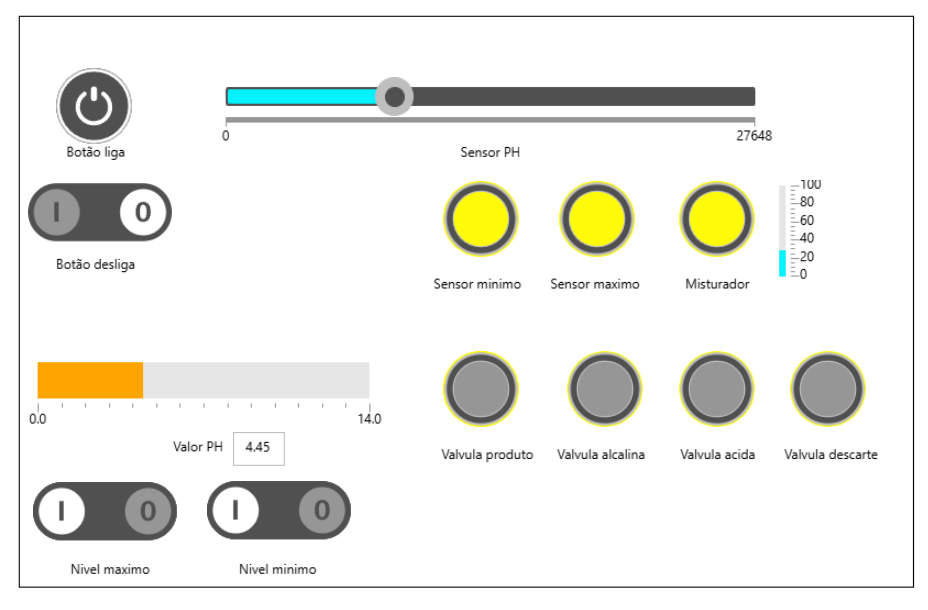
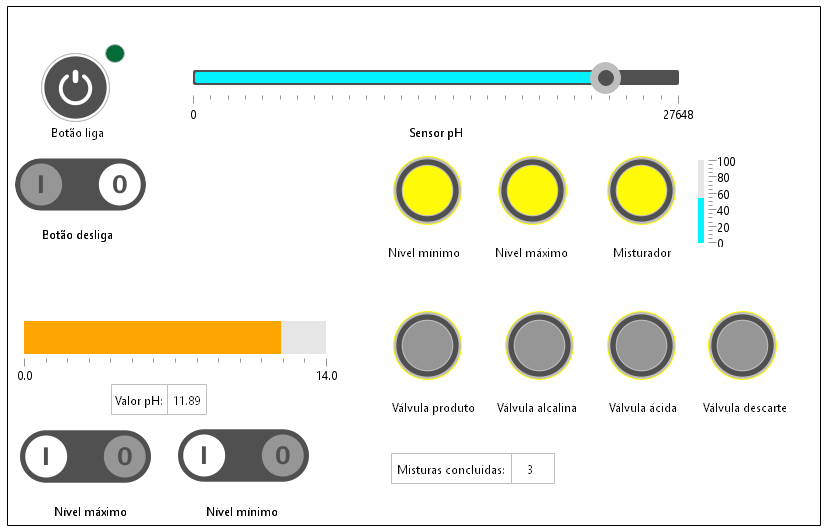
adição de protocolos e atualização da ihm

diff --git a/python-modbus/corretor_ph.py b/python-modbus/corretor_ph.py
@@ -1,0 +1,41 @@
+from pyModbusTCP.client import ModbusClient
+import time
+import struct
+
+c = ModbusClient(host="localhost", port=502, unit_id=1, auto_open=True)
+
+def decode_float(reg_low, reg_high):
+    # junta dois registros de 16 bits em um float de 32 bits
+    packed_data = struct.pack('<HH', reg_low, reg_high)
+    return struct.unpack('<f', packed_data)[0]
+
+status_anterior = None
+
+try:
+    while True:
+        if c.is_open:
+                registro = c.read_input_registers(0, 4)
+                if registro:
+                    status_atual = {
+                            "valvula produto": bool(registro[0] & (1 << 0)),
+                            "valvula acida": bool(registro[0] & (1 << 1)),
+                            "valvula alcalina":  bool(registro[0] & (1 << 2)),
+                            "valvula descarte":  bool(registro[0] & (1 << 3)),
+                            "atuador mistura":  bool(registro[0] & (1 << 4)),
+                            "nivel maximo":  bool(registro[0] & (1 << 5)),
+                            "nivel minimo":  bool(registro[0] & (1 << 6)),
+                            "estado ph": registro[1],
+                            "valor ph": round(decode_float(registro[2], registro[3]),2)} # estado 1 = neutro, 2 = basico, 3 = acido
+                    
+                    if status_anterior != status_atual:
+                        print("-"*30)
+                        for chave, valor in status_atual.items():
+                            print(f"{chave}: {valor}")
+                        status_anterior = status_atual
+                
+        else:
+            print("Tentando conectar...")
+            c.open()
+        time.sleep(0.5)
+except KeyboardInterrupt:
+    print("Scanner parado.")

diff --git a/README.md b/README.md
@@ -1,6 +1,7 @@
-Sistema de correção de pH - CODESYS & IHM
-
-Este projeto visa criar um corretor de misturas ácidas e alcalinas através de sensores analógicos e digitais e com uma IHM.
+Sistema de correção de pH - CODESYS & IHM & Mini-SCADA Python
+ 
+Este projeto visa criar um corretor de misturas ácidas e alcalinas através de sensores analógicos/digitais com uma IHM. Além disso, foram integrados os protocolos PROFINET para o envio e aquisição de dados para
+uma remota e ModbusTCP para a requisição de dados.
 
 Requisitos de Hardware:
 - Sensores/Atuadores: Sensor de presença de nível mínimo e máximo, sensor analógico de pH, válvulas e motores como atuadores.
@@ -8,7 +9,7 @@ Requisitos de Hardware:
 Funcionamento:
 1. É aberta a válvula do produto até que o sensor de nível máximo envie um sinal de que
 o tanque principal está cheio.
-2. O motor de misturar é ligado por 30 segundos para mexer a mistura do tanque.
+2. O motor de misturar é ligado por 10 segundos para mexer a mistura do tanque.
 3. É medido o pH da mistura através da entrada analógica.
 4. Se o pH for menor que 6,5 segue para o passo 5. Caso contrário, se o pH for maior
 que 7,5 segue para o passo 6. Caso contrário, se o pH for maior que 6,5 e menor que
@@ -24,11 +25,22 @@ O sensor analógico de pH é utilizado no bloco SCALE_R para converter o sinal e
 O processo se repete até o produto estar com pH entre 6.5 e 7.5 para assim ser descartado.
 ![Lógica Ladder - Corretor pH](screenshots/screenshot_corretor_ph.png)
 
-- Interface Homem-Máquina: Interface para o monitoramento do código. Nela estão presentes LEDs para indicar quando um sensor ou atuador está ativo e uma barra de preenchimento vertical para indicar o tempo restante do misturador.
-![IHM - Interface Homem-Máquina](screenshots/screenshot_IHM.png)
+- Interface Homem-Máquina: Interface para o monitoramento do programa. Nela estão presentes LEDs para indicar quando um sensor ou atuador está ativo e uma barra de preenchimento vertical para indicar o tempo restante do misturador. Além disso, um contador indica quantas misturas já foram concluídas.
+![IHM - Interface Homem-Máquina](screenshots/screenshot_ihm.png)
+
+- Protocolo ModbusTCP & Python: Comunicação entre o CLP e um programa python. O protocolo ModbusTCP e a biblioteca pymodbusTCP foram utilizados para o monitoramento de dados. Quando há alguma alteração entre as válvulas ou sensores, o python detecta e imprime os estados atuais no terminal.
+![ModbusTCP - Comunicação CLP - Python](screenshots/screenshot_modbus.png)
+![Python - Mini SCADA](screenshots/screenshot_mini_scada_python.png)
+
+- Protocolo Profinet: Foi simulado uma remota com o intuito de testar a comunicação através do protocolo Profinet. Diferentes tipos de entradas e saídas (analógicas e digitais) foram mapeadas para que o protocolo pudesse enviar e receber dados sobre os sensores e atuadores.
+![Profinet - Comunicação CLP - Remota](screenshots/screenshot_profinet_digital_input.png)
+![Profinet - Comunicação CLP - Remota](screenshots/screenshot_profinet_digital_output.png)
 
 Tecnologias
 - CODESYS V3.5 (SoftPLC)
+- Profinet
+- ModbusTCP
+- Python
 
 ---
 *Projeto desenvolvido para consolidar conhecimentos em programação de CLPs.*